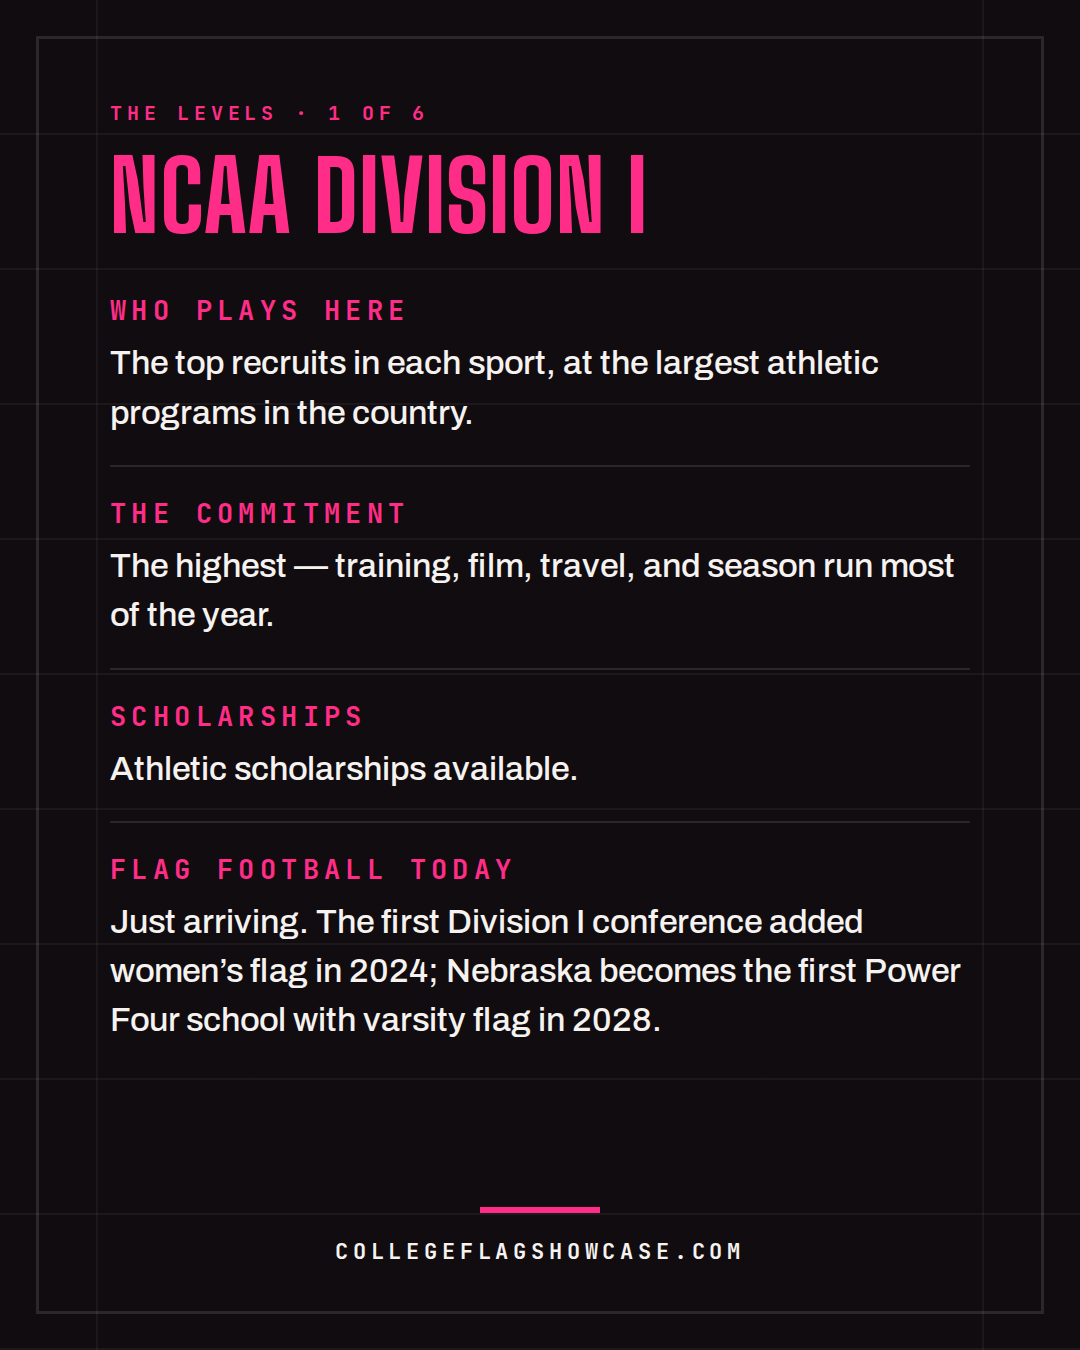
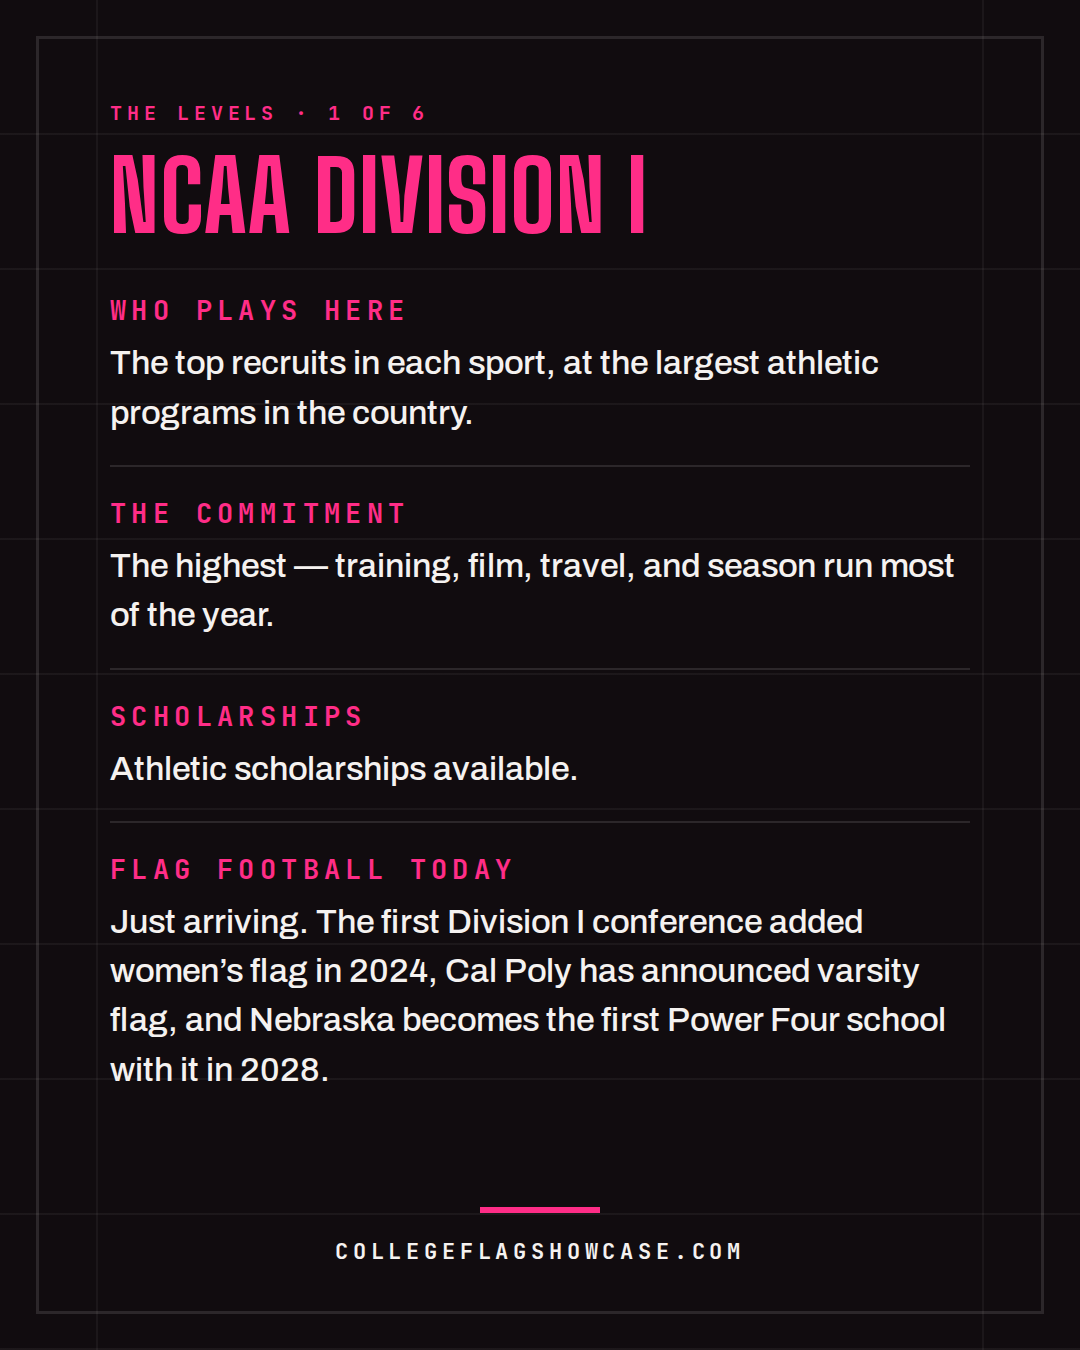
Name Cal Poly and Nebraska on the DI slide
Claude-Session: https://claude.ai/code/session_019V32boShoBmRrwWenCPJFc

Changed region(s): [[0.0917, 0.6844, 0.8861, 0.8089]]

diff --git a/collateral/ig-carousel-divisions.html b/collateral/ig-carousel-divisions.html
@@ -89,7 +89,7 @@
       </div>
       <div class="row">
         <p class="row-label">Flag football today</p>
-        <p class="row-text">Just arriving. The first Division I conference added women&rsquo;s flag in 2024; Nebraska becomes the first Power Four school with varsity flag in 2028.</p>
+        <p class="row-text">Just arriving. The first Division I conference added women&rsquo;s flag in 2024, Cal Poly has announced varsity flag, and Nebraska becomes the first Power Four school with it in 2028.</p>
       </div>
     </div>
     <div class="rule center-rule"></div>
